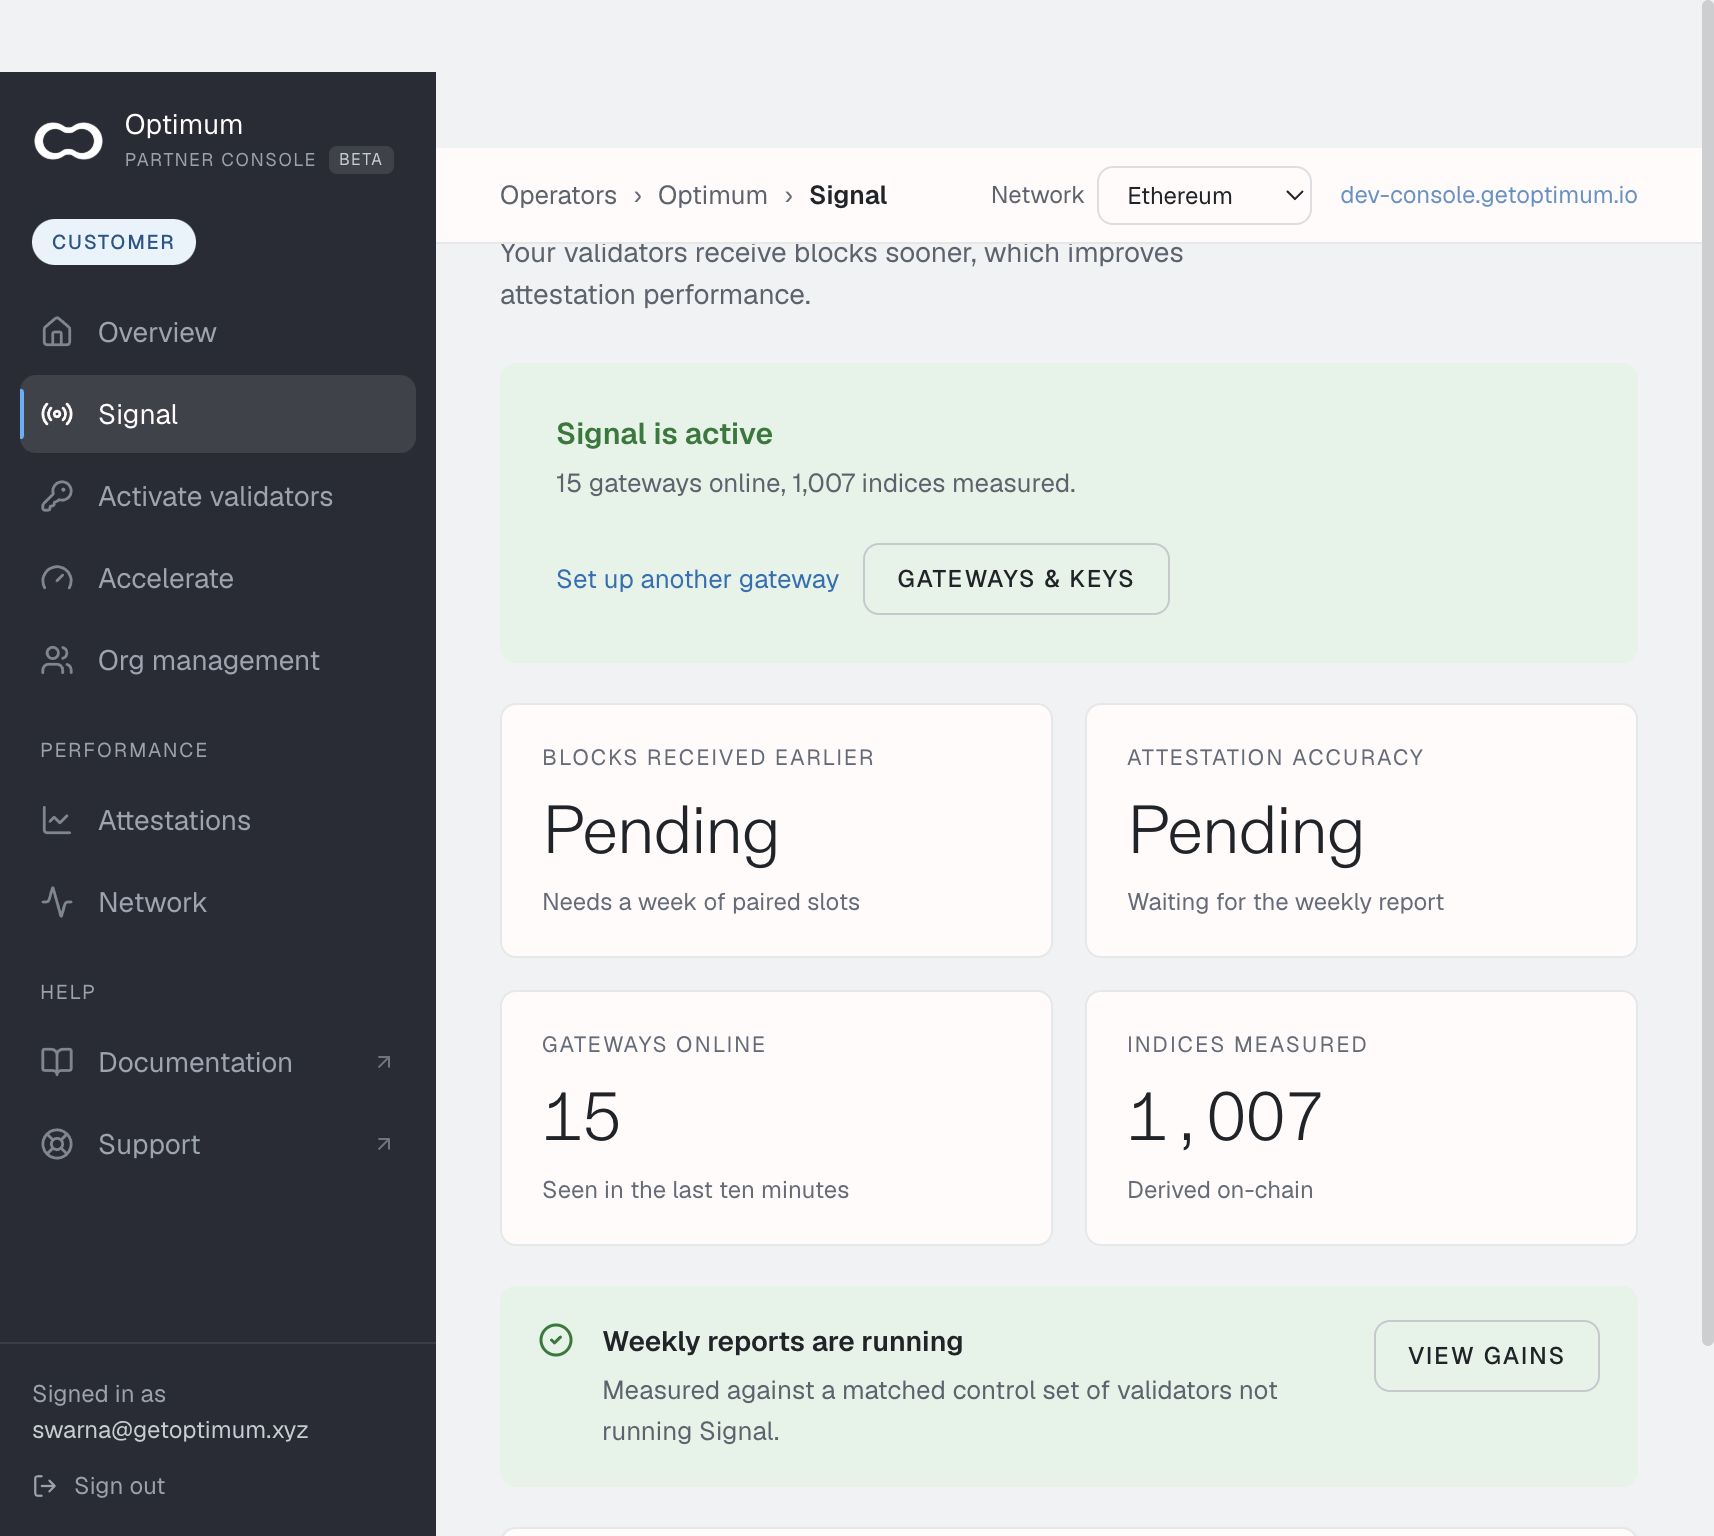
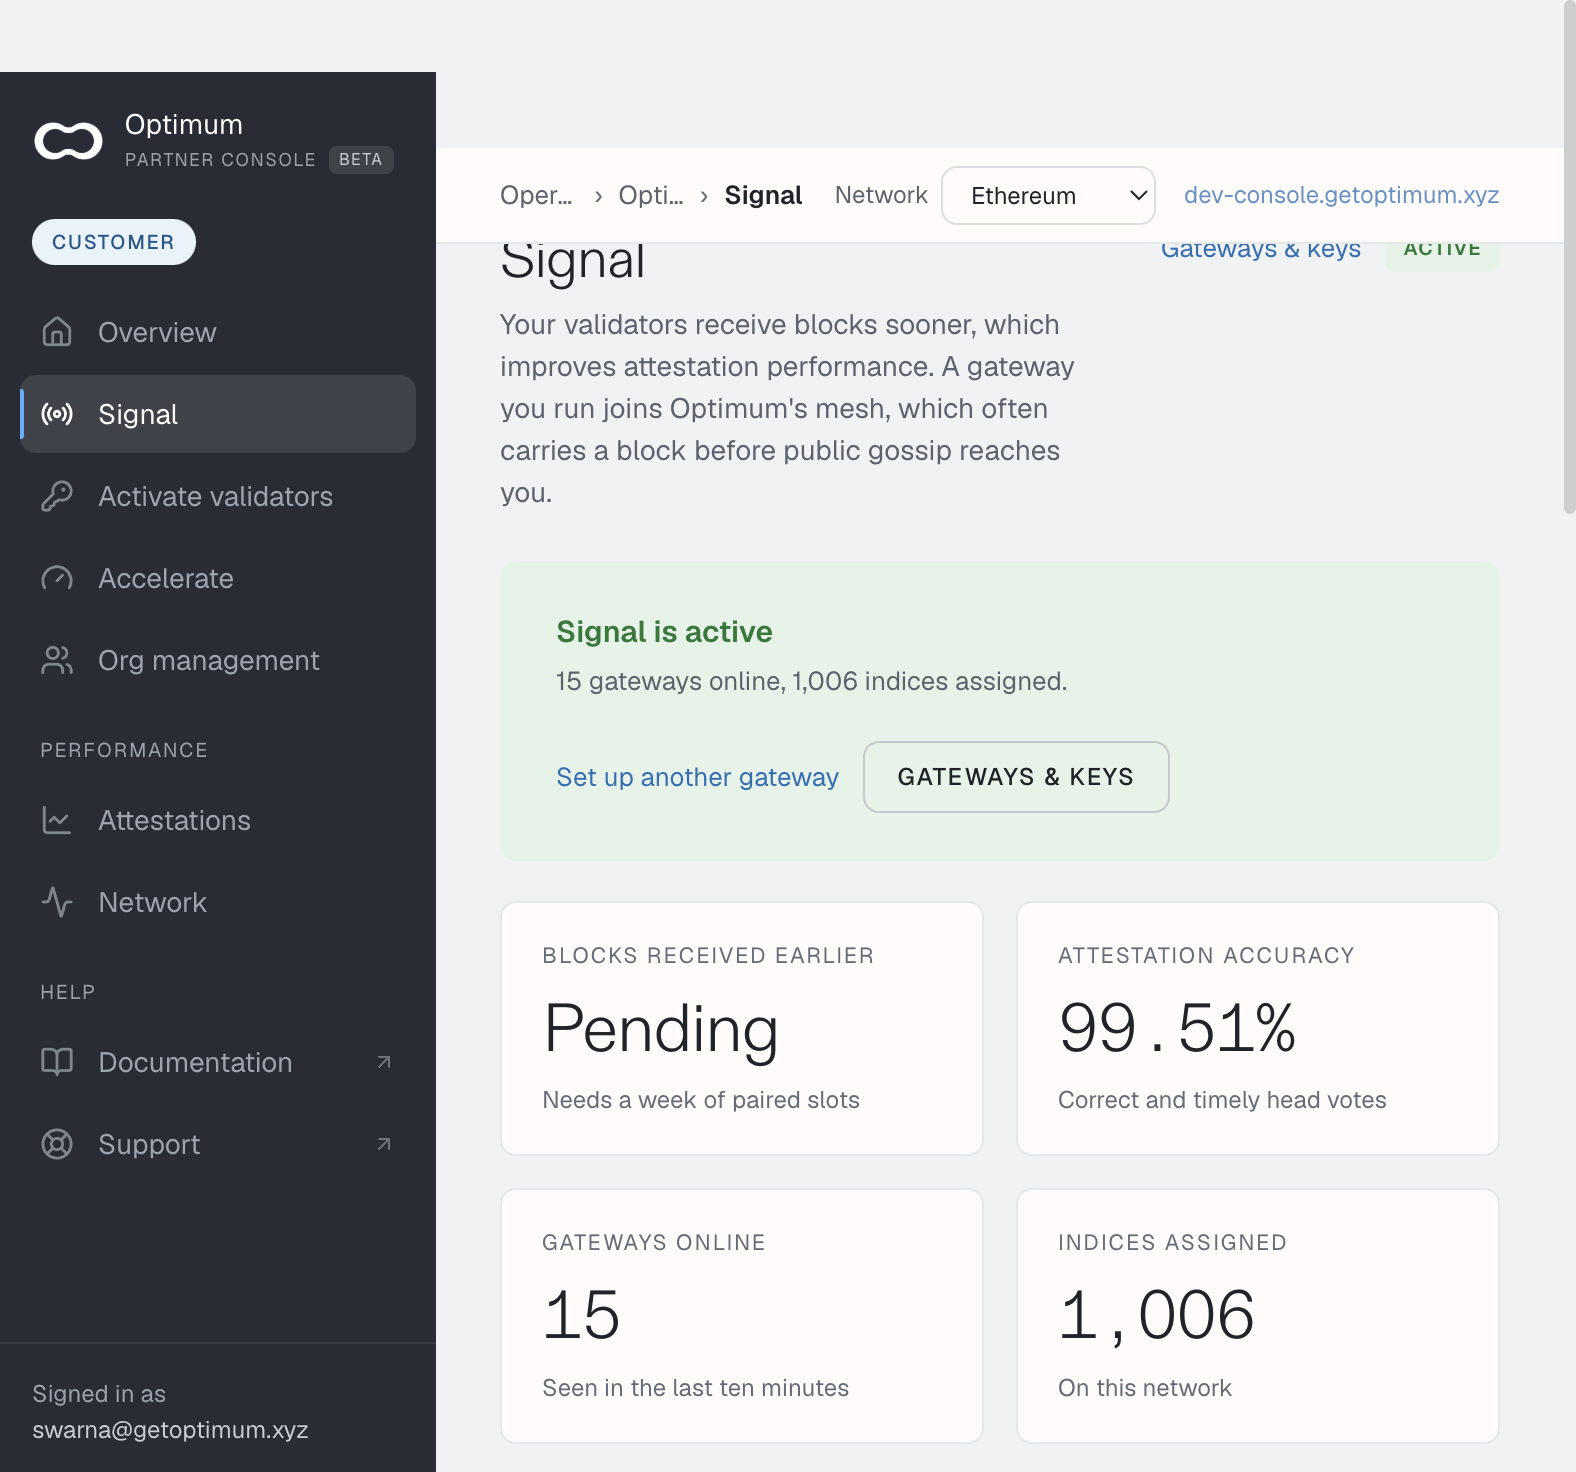
fix

diff --git a/accelerate/recommendation.md b/accelerate/recommendation.md
@@ -11,11 +11,13 @@ The notice says the configuration information is a simulation from current netwo
 
 Read the text in the dialog. The copy on this page is a summary so you know what the step is. The dialog is the agreement.
 
-After you accept, **Your MEV-Boost setup** asks you to upload the config you run, with **Upload config** or by dropping the file on the box. Your cutoff, your `late_in_slot_time_ms`, and your relay set are read from it, so the recommendation is against what you actually run. Console compares it with what your proposals show. It still does not change anything on your side.
+After you accept, **Your MEV sidecar setup** asks you to upload the config you run. Drop the file on the box, which says **Drop your MEV-Boost or Commit-Boost config**, or use **Upload config**. Your cutoff, your `late_in_slot_time_ms`, and your relay set are read from it, so the recommendation is against what you actually run. Console compares it with what your proposals show. It still does not change anything on your side.
 
-The upload reads MEV-Boost YAML. If you run Commit-Boost, upload a MEV-Boost YAML with the same `timeout_get_header_ms`, `late_in_slot_time_ms`, and relay URLs. The Adjust step exports either format. See [MEV sidecar configuration](/accelerate/adjust-mev-boost).
+**MEV-Boost or Commit-Boost.** Upload the file you already run: mev-boost `config.yaml`, or Commit-Boost `cb-config.toml`. From a Commit-Boost file it reads the `[pbs]` timings and each `[[relays]]` url. The rest of that file, such as chain, port, signer, and metrics, is left unread, because what Console exports back is a `[pbs]` block you merge into `cb-config.toml`, not a replacement for that file. See [MEV sidecar configuration](/accelerate/adjust-mev-boost).
 
-A file Console cannot read is refused with **That was not accepted** and the reason, named at the line.
+No config yet, or the file was refused? Download a starter for **MEV-Boost** or **Commit-Boost**. Neither file is a recommendation. The MEV-Boost file is a complete config. The Commit-Boost file is a `[pbs]` block to merge into the `cb-config.toml` you run. The starter is not offered once a config is on file.
+
+A file Console cannot read is refused with **That file was not accepted**. Every problem is listed, each with its line. When there are several, the title includes the count.
 
 If the configuration is already on file and the terms are not yet acknowledged, the screen says **One thing before your recommendation**. **Read and acknowledge** opens the same dialog. The recommendation stays hidden until you accept.
 
@@ -23,7 +25,7 @@ Until a file is on record, the report has no cutoff to judge proposals by, and s
 
 The recommendation itself is withheld below 200 measured proposals. The callout is **Not enough proposals yet for a recommendation**. See [Readiness](/accelerate/readiness).
 
-Once the window can support a number, the panel is **Recommended bid cutoff**, in milliseconds, with **I am ready to adjust**. The line under the number is the move from your current cutoff, and how much time that leaves before local block building. **Replace the config on file** uploads a different file.
+Once the window can support a number, the panel is **Recommended bid cutoff**, in milliseconds, with **I am ready to adjust — next step**. The line under the number is the move from your current cutoff, and how much time that leaves before local block building. **Replace the config on file** uploads a different file, under the heading **Replace your MEV sidecar config**.
 
 ![Accelerate, Recommendation. Recommended bid cutoff and I am ready to adjust are marked.](/console/11-accelerate-recommendation.png)
 

diff --git a/signal/connect-your-gateway.md b/signal/connect-your-gateway.md
@@ -13,9 +13,9 @@ This page covers **1b Start the gateway** and **1c Point your client at the gate
 
 `OPT_GATEWAY_CLUSTER_ID` has no default. The process exits if it is empty. Console sets it to the cluster the key was minted for, and the block below shows the mainnet value so you can read the shape. Copy the value Console prints. A different value authenticates and then fails every mesh handshake.
 
-The image Console hands out for production is `v1.3.2`. `-config ""` is required. The flag defaults to `config/app_conf.yml`, which is not in the image, and the process exits before it reads any environment variable.
+The image Console hands out for production is `docker.io/getoptimum/gateway:latest`. That tag moves when a gateway release ships. `-config ""` is required. The flag defaults to `config/app_conf.yml`, which is not in the image, and the process exits before it reads any environment variable.
 
-Do not add `OPT_CHAIN_ID`. This release does not read it. The chain comes from the enrollment key.
+Do not add `OPT_CHAIN_ID`. Console does not put it in the command. The chain comes from the enrollment key.
 
 Auth and bootstrap are built in: `https://auth.getoptimum.io` and `https://bootstrap.getoptimum.io`. They are not in the command. Set `OPT_REMOTE_AUTH_URL` only when Optimum gives you another environment, and set `OPT_REMOTE_BOOTSTRAP_URL` to the bootstrap for that same environment. An auth URL pointed elsewhere, with the default bootstrap, enrols in one place and peers in another.
 
@@ -36,7 +36,7 @@ docker run -d --name optimum-gateway \
   -e OPT_REMOTE_PUSH_ENABLE=true \
   -v "$HOME/optimum-gateway/libp2p":/tmp/libp2p \
   -v "$HOME/optimum-gateway/mump2p":/tmp/mump2p \
-  docker.io/getoptimum/gateway:v1.3.2 -config ""
+  docker.io/getoptimum/gateway:latest -config ""
 ```
 
 On an SELinux host, add `:z` after each container path. That is what Console’s SELinux option does. `:z` is shared, so a second gateway on the same host can use its own subdirectory under the same parent.
@@ -68,7 +68,7 @@ docker run -d --name optimum-gateway \
   -e OPT_STREAM_GRPC_ADDR=0.0.0.0:9601 \
   -v "$HOME/optimum-gateway/libp2p":/tmp/libp2p \
   -v "$HOME/optimum-gateway/mump2p":/tmp/mump2p \
-  docker.io/getoptimum/gateway:v1.3.2 -config ""
+  docker.io/getoptimum/gateway:latest -config ""
 ```
 
 Changing any `-e` means replacing the container, not restarting it. A restart keeps the old environment. Re-running without removing it fails because the name is taken.

diff --git a/signal/what-signal-does.md b/signal/what-signal-does.md
@@ -13,11 +13,13 @@ Signal is switched on by Optimum. Until it is, the sidebar has no **Signal** ent
 
 That switch covers every account. It is not a fault in yours, and no URL gets around it. Ask [support](/help/support). Everything on these pages describes the screens as they appear once Signal is on.
 
-Once a gateway is enrolled, Signal opens on a home. The banner says whether Signal is active, how many gateways were seen in the last ten minutes, and how many indices are measured. Under it, four cards: blocks received earlier, attestation accuracy, gateways online, and indices measured. **Set up another gateway** starts the connect steps. **Gateways & keys** is where you mint enrollment keys and stream consumer tokens.
+Once a gateway is enrolled, Signal opens on a home. The line under the heading is **Your validators receive blocks sooner, which improves attestation performance. A gateway you run joins Optimum's mesh, which often carries a block before public gossip reaches you.** The banner says **Signal is active** when a gateway was seen recently, and it counts gateways online and indices assigned. Under it, four cards: **Blocks received earlier**, **Attestation accuracy**, **Gateways online** (seen in the last ten minutes), and **Indices assigned**. **Set up another gateway** starts the connect steps. **Gateways & keys** is where you mint enrollment keys and consumer tokens.
 
 ![Signal home. Signal is active, with the four cards, Set up another gateway, and Gateways & keys.](/console/03-signal-home.png)
 
 The pill on that home is **Active** when a gateway was seen recently, **Idle** when none was, and **Unknown** when the status could not be read. **View gains** opens the attestation report once weekly reports are running.
+
+An account that does not run validators does not get those four cards. The banner counts gateways online, and the only card is **Gateways online**. Block timing and attestation accuracy are measured against that account's own validators, so they are not on this home.
 
 ## Connect
 

diff --git a/index.md b/index.md
@@ -7,7 +7,7 @@ description: Optimum is a gateway network that delivers Ethereum blocks to your 
 
 Optimum is a network of gateways you run beside your beacon node. The gateway delivers Ethereum blocks sooner, so your validators can attest to the head that was actually proposed. Where Optimum enables it, it also recommends a bid cutoff for the MEV sidecar you already run, so a proposal can take a better bid without waiting so long that the block is late.
 
-These pages are the runbook for that setup. They are for staking providers and for people who run their own validators. [Start here](/start/what-optimum-does) if you want the path before the detail. [Open Console](https://console.getoptimum.io/) when you are ready to enrol a gateway.
+These pages are the runbook for that setup. They are for staking providers and for people who run their own validators. [Start here](/start/what-optimum-does) if you want the path before the detail. [Open Console](https://console.getoptimum.xyz/) when you are ready to enrol a gateway.
 
 Your validators can only attest to a block after it reaches your beacon node. When the block arrives late, attestations miss or vote on the wrong head. When you propose, the bid cutoff sets how long the sidecar waits for a better bid. If you wait too long, your block is late. If you cut off too early, you leave value behind.
 
@@ -75,7 +75,7 @@ Start here. This is the operator setup.
 3. **[Signal](/signal/what-signal-does).** Name the gateway, start it, peer your consensus client, verify it, and register your validator indices.
 4. **[Accelerate](/accelerate/what-accelerate-does).** Shown once Optimum enables your organisation and you have at least 200 active validators on mainnet. Then, once enough proposals are measured, read the cutoff recommendation and set it on your MEV sidecar.
 
-[Open Console](https://console.getoptimum.io/)
+[Open Console](https://console.getoptimum.xyz/)
 
 The other sections come after that setup:
 

diff --git a/getting-in/create-an-account.md b/getting-in/create-an-account.md
@@ -5,7 +5,7 @@ description: Sign up to Console with Google or Microsoft, or sign in to an accou
 
 # Create an account
 
-Open [Console](https://console.getoptimum.io/). The sign-in card has two tabs.
+Open [Console](https://console.getoptimum.xyz/). The sign-in card has two tabs.
 
 | Tab | Heading | Buttons |
 | --- | --- | --- |
@@ -24,7 +24,7 @@ The last screen is **Your account is ready**. It lists the account type, the org
 
 ## When signup is closed
 
-If the card has no **Create account** tab, or [signup](https://console.getoptimum.io/signup) shows a 404, self-serve signup is closed. Optimum creates the account for you, and you sign in with the Google or Microsoft account you gave them. Where Signal and Accelerate are enabled for your organisation, you use the same screens.
+If the card has no **Create account** tab, or [signup](https://console.getoptimum.xyz/signup) shows a 404, self-serve signup is closed. Optimum creates the account for you, and you sign in with the Google or Microsoft account you gave them. Where Signal and Accelerate are enabled for your organisation, you use the same screens.
 
 ## No organisation linked
 

diff --git a/start/what-optimum-does.md b/start/what-optimum-does.md
@@ -9,7 +9,7 @@ You run one container, the Optimum gateway, on a host that can reach your beacon
 
 **Accelerate** is separate. It reads slots your validators already proposed and recommends a bid cutoff, so a proposal can take a better bid without waiting so long that the block is late. You apply that cutoff on the MEV sidecar you already run, MEV-Boost or Commit-Boost. Console does not change your infrastructure.
 
-Both live in [Console](https://console.getoptimum.io/). This site is the runbook. Install details, every setting, and metrics are in the [gateway manual](/operate/run-the-gateway).
+Both live in [Console](https://console.getoptimum.xyz/). This site is the runbook. Install details, every setting, and metrics are in the [gateway manual](/operate/run-the-gateway).
 
 ::: info
 There is no Optimum-hosted multiaddr to point a client at. The client peers the gateway you started beside it. The peer id comes from that gateway.

diff --git a/accelerate/what-accelerate-does.md b/accelerate/what-accelerate-does.md
@@ -31,7 +31,7 @@ When a measurement cycle finishes and you have not answered it, **Accelerate** i
 
 Every figure is measured on slots you already proposed. The figures sit on this screen, under **MEV outcome**. See [Acceleration](/accelerate/where-results-show).
 
-Before you accept the terms, the top of the screen says **Accept the terms to see your modelled gain**. That gain is the annual figure a later bid cutoff could have captured on the slots you propose, from the simulation the terms describe. See [Readiness](/accelerate/readiness#modelled-annual-gain).
+Before you accept the terms, the top of the screen says **Accept the terms to see your modelled gain**. After you accept, that place shows the annual figure: what a later bid cutoff could have captured on the slots you propose, from the simulation the terms describe. See [Readiness](/accelerate/readiness#modelled-annual-gain).
 
 ## Older names on some screens
 

diff --git a/accelerate/readiness.md b/accelerate/readiness.md
@@ -11,7 +11,7 @@ A cutoff recommendation needs 200 measured proposals, across all your validators
 
 ## Modelled annual gain
 
-The top of step 1 is about the modelled gain: what a later bid cutoff could have captured on blocks you already proposed, held at that rate for a year. It is read from the simulation the terms describe, so before you accept them the screen says **Accept the terms to see your modelled gain**.
+The top of step 1 is about the modelled gain: what a later bid cutoff could have captured on blocks you already proposed, held at that rate for a year. It is read from the simulation the terms describe, so before you accept them the screen says **Accept the terms to see your modelled gain**. After you accept, the annual figure shows in that place.
 
 The other answers in that place:
 

diff --git a/operate/run-the-gateway.md b/operate/run-the-gateway.md
@@ -5,7 +5,7 @@ description: Where the install, enrolment, and configuration references live.
 
 # Run the gateway
 
-The command operators paste is the one in [Connect your gateway](/signal/connect-your-gateway). It matches what Console renders for production (`v1.3.2`). If you have not enrolled a gateway yet, start at [What Optimum does](/start/what-optimum-does).
+The command operators paste is the one in [Connect your gateway](/signal/connect-your-gateway). It matches what Console renders for production (`docker.io/getoptimum/gateway:latest`). If you have not enrolled a gateway yet, start at [What Optimum does](/start/what-optimum-does).
 
 Use the versioned gateway docs when you need the rest:
 

diff --git a/accelerate/adjust-mev-boost.md b/accelerate/adjust-mev-boost.md
@@ -18,7 +18,7 @@ Optimum has no write access to either sidecar.
 
 ## The Adjust step
 
-From the recommendation, **I am ready to adjust** opens step 3, **Adjust**. **Review cutoff**, on the banner after a cutoff is recorded, opens the same editor.
+From the recommendation, **I am ready to adjust — next step** opens step 3, **Adjust**. **Review cutoff**, on the banner after a cutoff is recorded, opens the same editor.
 
 The top card says **Configuration matches the file you uploaded** until you move a value, then **Unsaved changes to the cutoff**, with **Export the new config and deploy it — nothing here reaches your infrastructure.**
 

diff --git a/help/troubleshoot.md b/help/troubleshoot.md
@@ -67,4 +67,4 @@ This is safe. The peer id and the enrollment credential live in `$HOME/optimum-g
 
 ## Past the Console command
 
-Config keys, log lines, and metric names are in [Troubleshooting](https://getoptimum.github.io/optimum-gateway/versions/latest/troubleshoot) for gateway `v1.3.2`.
+Config keys, log lines, and metric names are in [Troubleshooting](https://getoptimum.github.io/optimum-gateway/versions/latest/troubleshoot).
